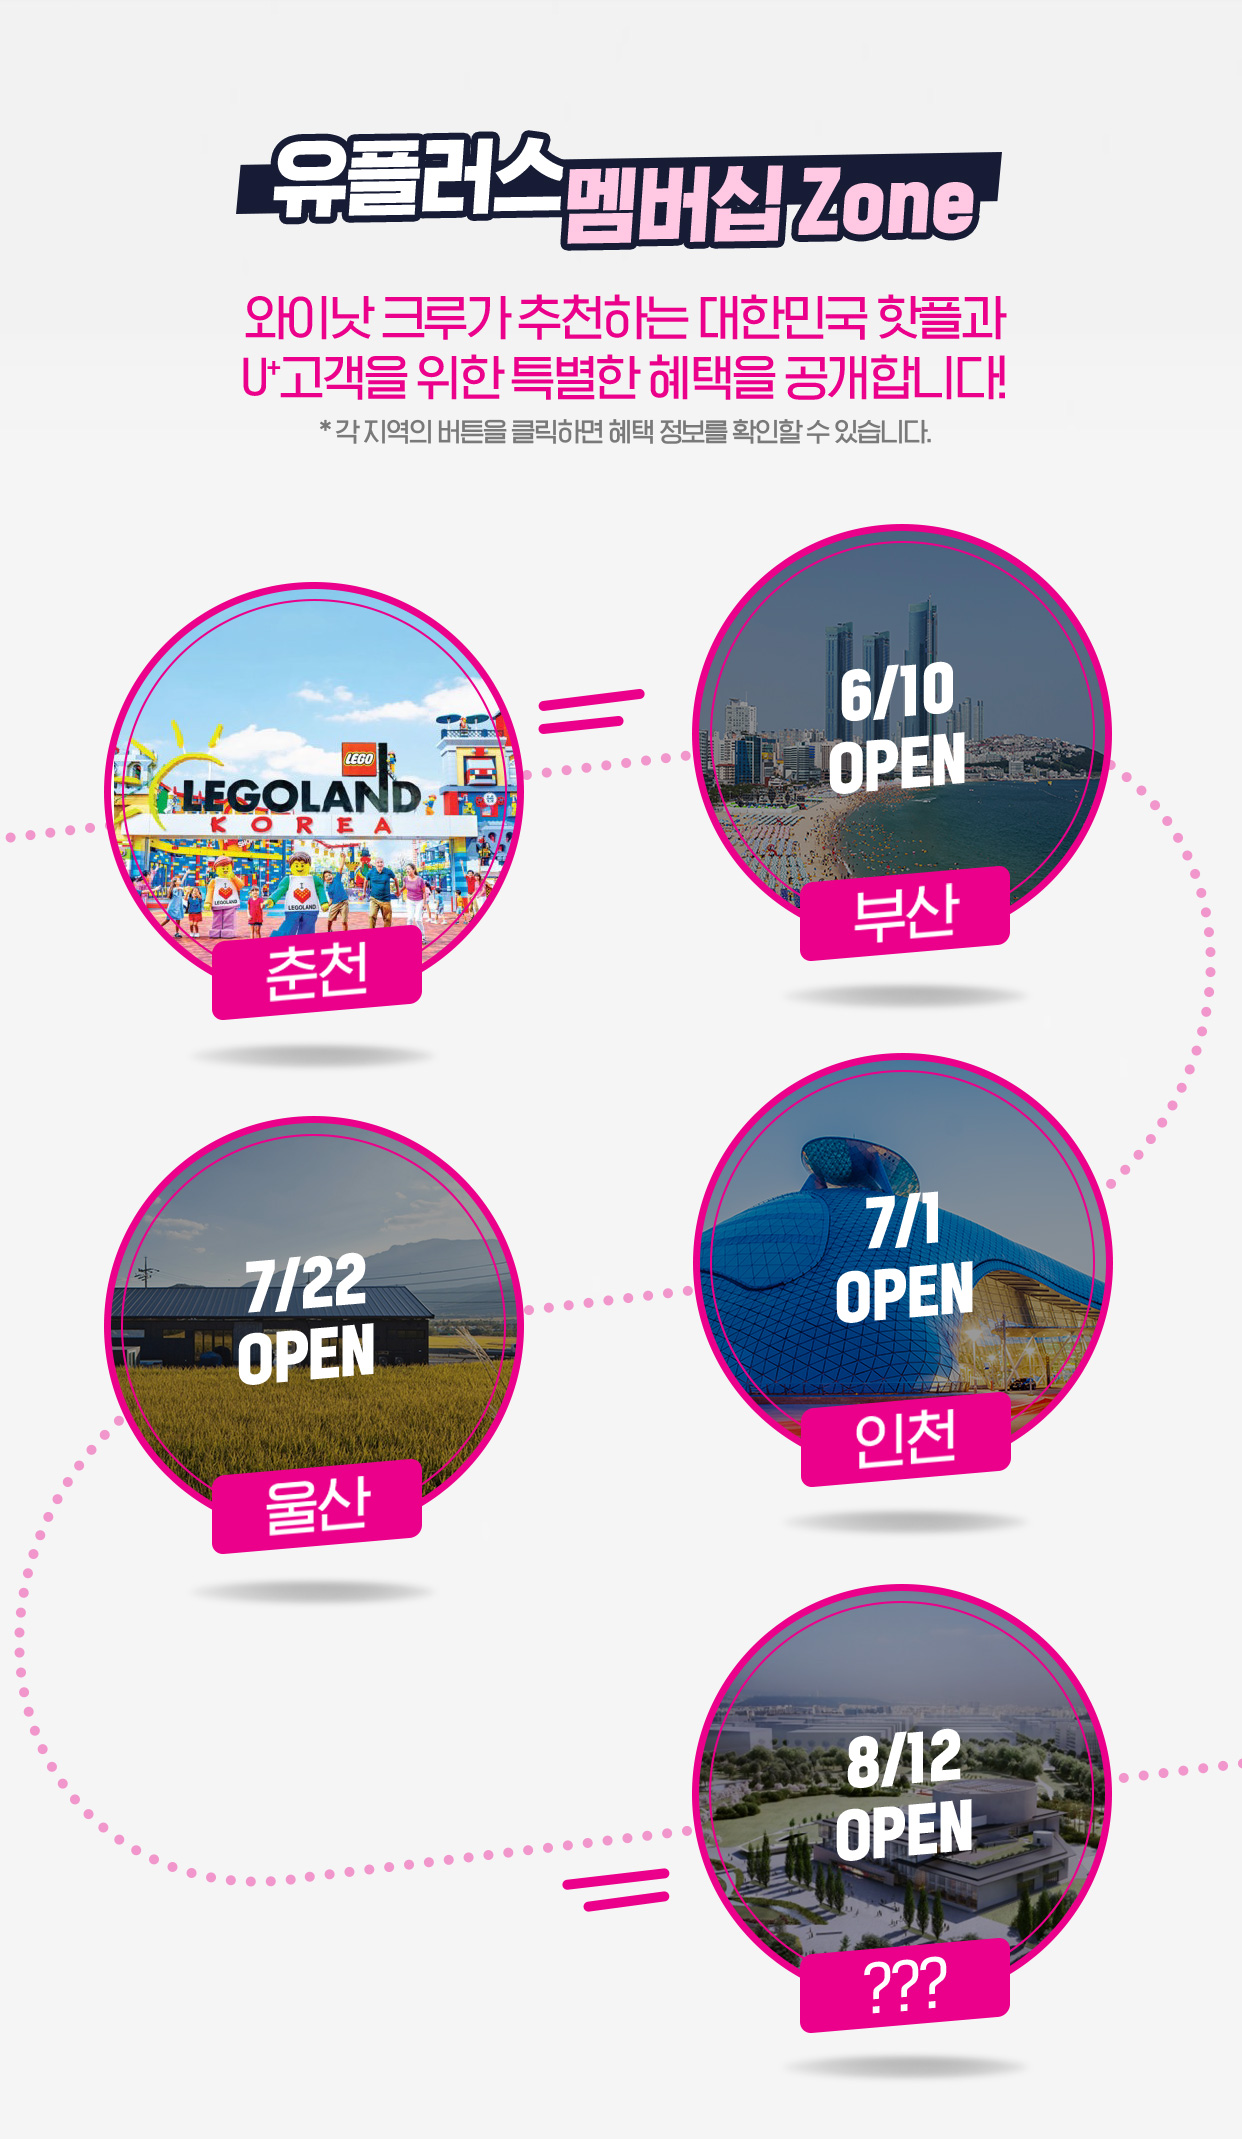
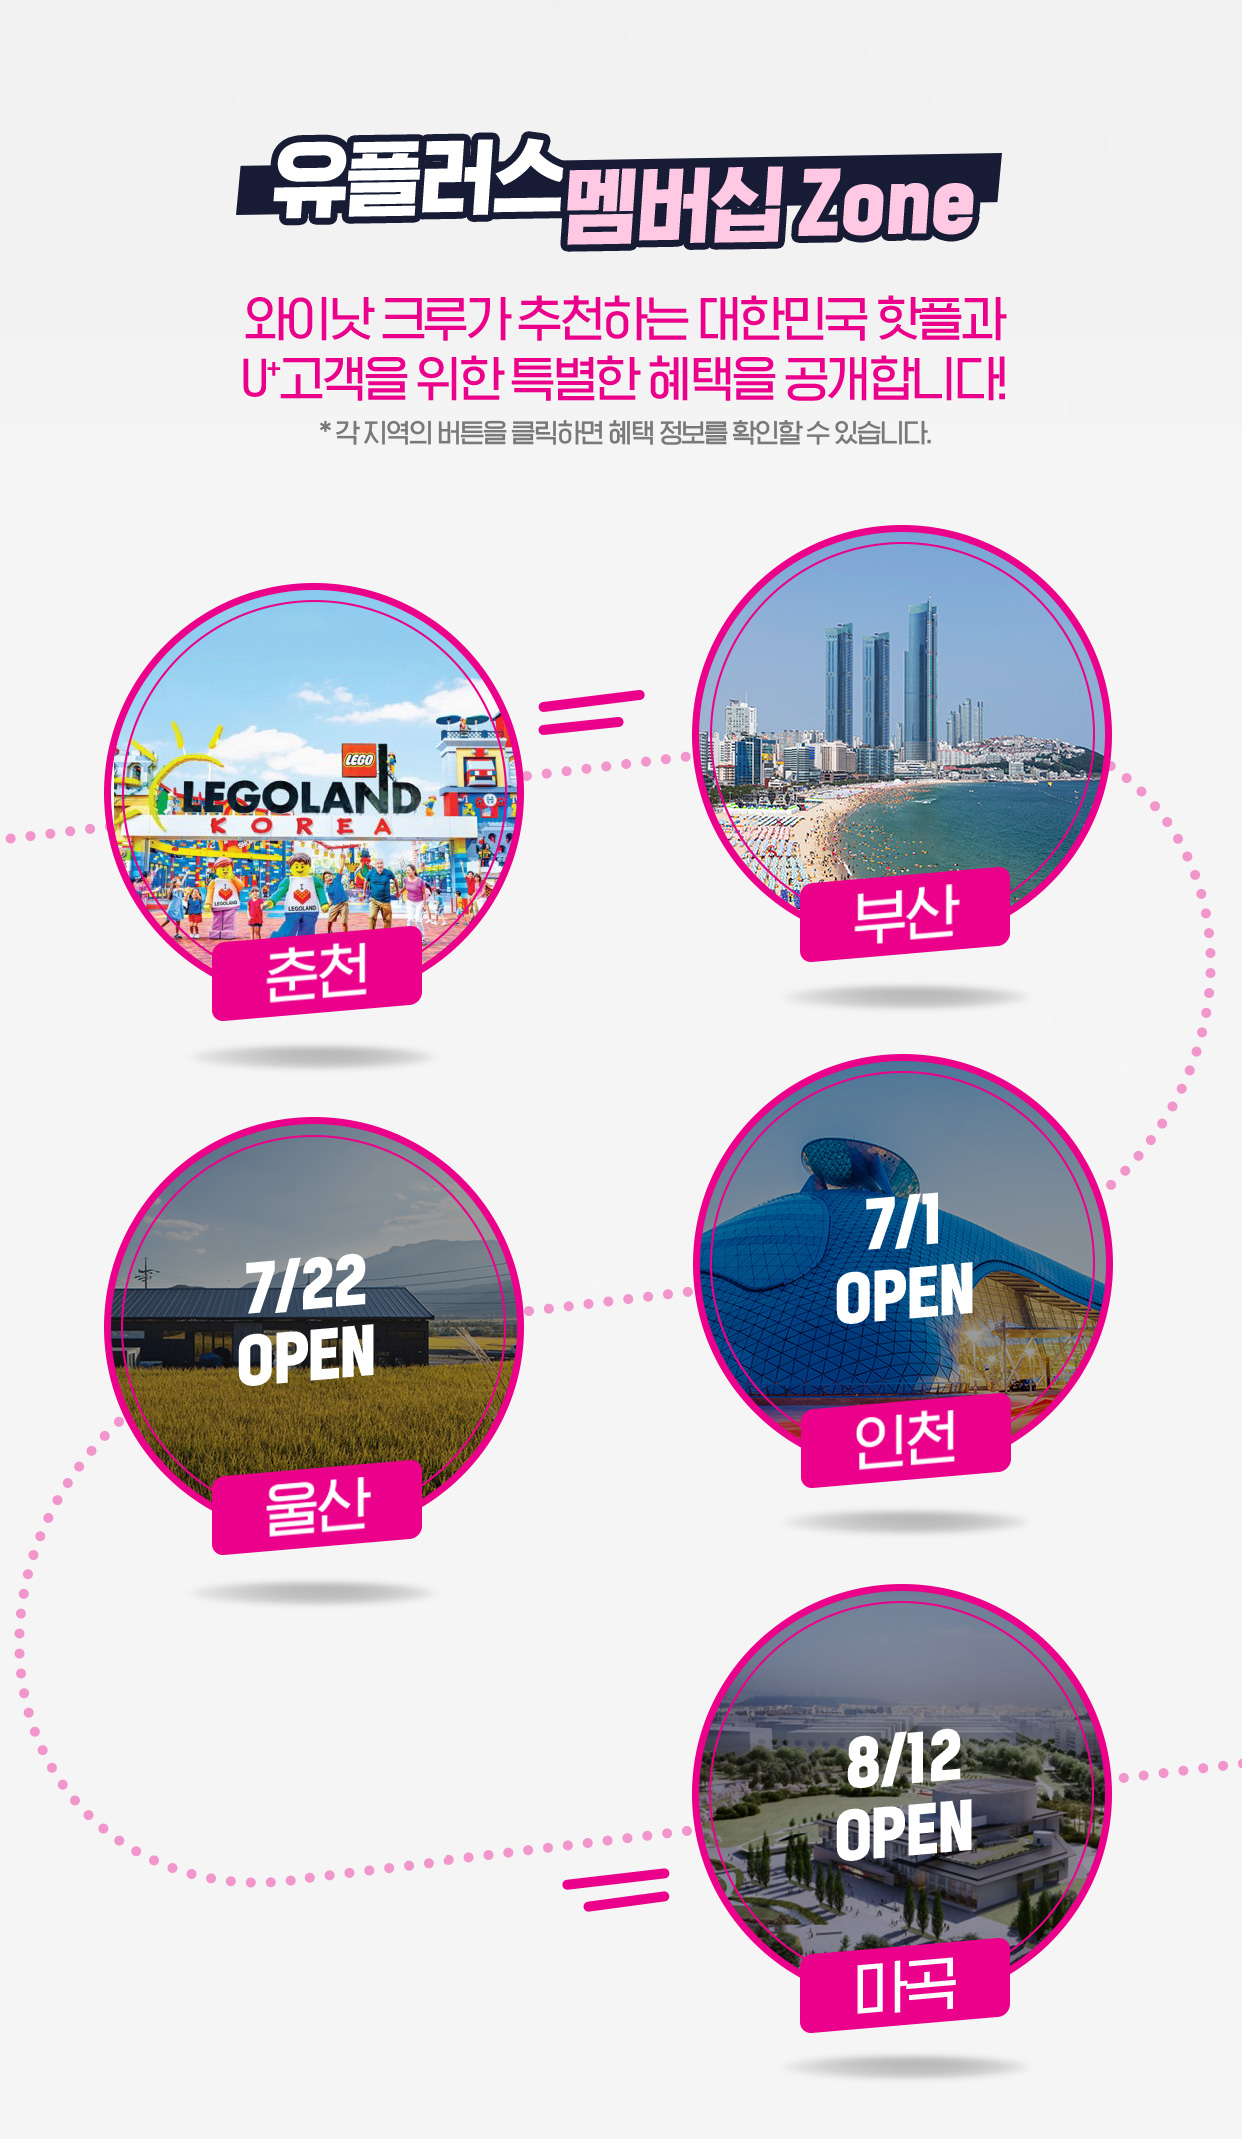
수정

diff --git a/src/js/web/app.js b/src/js/web/app.js
@@ -31,6 +31,48 @@ const Modal = class {
 
 const app = () => {
     (() => {
+        const now = Date.now();
+        const reservationDate = {
+            '2022.07.01 18:00': new Date(2022, (7 - 1), 1, 18, 0, 0)
+        };
+        const movieId = {
+            '2022.07.01 18:00': {
+                whyNot: 'ojEof7DNPt4',
+                whyNotRoad: 'xYIYu9ovC48',
+            }
+        };
+        const isReservationDate = reservationDate => now >= reservationDate;
+
+        // 와이낫 로드 > 유플러스 멤버십 zone
+        (() => {
+            if (true && isReservationDate(reservationDate['2022.07.01 18:00'])) {
+                const zone = document.querySelector('.why-not-road__zone');
+                const zoneItem = zone.querySelectorAll('li')[2];
+
+                zone.style.backgroundImage = 'url("/assets/images/why-not-road/p_zone_220701.jpg")';
+                zoneItem.innerHTML = '<a href="#modal-3"><span>인천</span></a>';
+            }
+        })();
+
+        // 와이낫 로드 > 와이낫 크루 영상 보기
+        (() => {
+            if (false && isReservationDate(reservationDate['2022.07.01 18:00'])) {
+                const movie = document.querySelector('.why-not-road__about-movie iframe');
+                movie.src = `https://www.youtube.com/embed/${movieId}?controls=0`;
+            }
+        })();
+
+        // 와이낫 > WHY NOT 프로젝트 소개
+        (() => {
+            if (false && isReservationDate(reservationDate['2022.07.01 18:00'])) {
+                const detail = document.querySelector('.why-not__info-detail--1 a');
+                detail.href = `https://youtu.be/${movieId}`;
+            }
+        })();
+    })();
+
+
+    (() => {
         const url = new URL(location);
         const nav = document.querySelector('.why-not-nav');
         const triggers = [...nav.querySelectorAll('a')];
@@ -58,20 +100,6 @@ const app = () => {
             });
         });
     })();
-
-    // (() => {
-    //     const detail = document.querySelector('.why-not__info-detail--1 a');
-    //     const movie = document.querySelector('.why-not-road__about-movie iframe');
-    //     const now = Date.now();
-    //     let movieId = 'ojEof7DNPt4';
-    //
-    //     if (now > new Date(2022, 5, 17, 18, 0, 0)) {
-    //         movieId = 'xYIYu9ovC48'
-    //     }
-    //
-    //     // detail.href = `https://youtu.be/${movieId}`;
-    //     movie.src = `https://www.youtube.com/embed/${movieId}?controls=0`;
-    // })();
 };
 
 document.addEventListener('DOMContentLoaded', app);

diff --git a/src/scss/web/app.scss b/src/scss/web/app.scss
@@ -414,16 +414,30 @@ ul {
 
 .why-not-road {
     &__zone {
-        @include backdrop-content(2138, 'why-not-road/p_zone_220610.jpg');
+        @include backdrop-content(2138, 'why-not-road/p_zone.jpg');
     }
 }
 
 .why-not-road-detail {
-    @for $i from 1 through 2 {
+    @for $i from 1 through 3 {
         &--#{$i} & {
             &__container {
                 background-image: url("/assets/images/why-not-road/p_list_#{$i}.png");
             }
+        }
+    }
+}
+
+.why-not-road-detail {
+    &--3 & {
+        &__container {
+            &::before {
+                padding-top: percentage(math.div(2574, 1187));
+            }
+        }
+
+        &__map {
+            bottom: percentage(math.div(134, 2574));
         }
     }
 }
